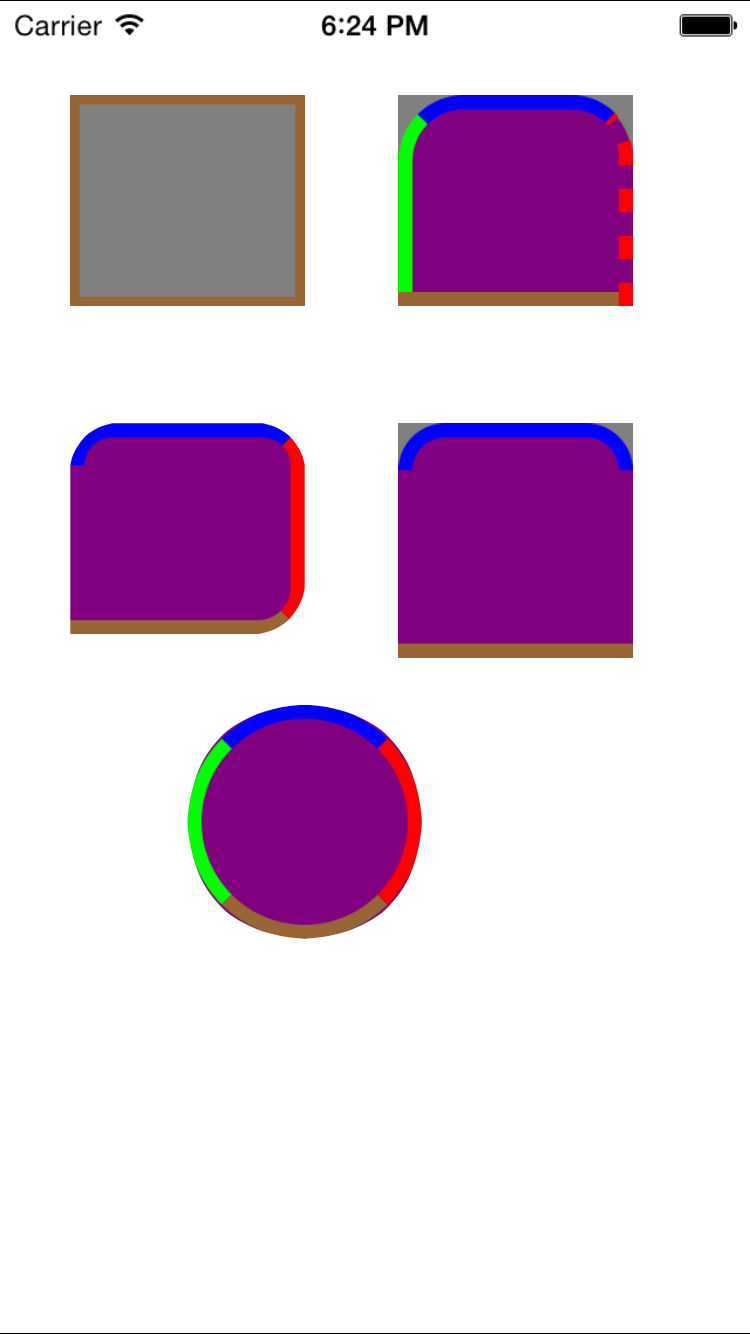
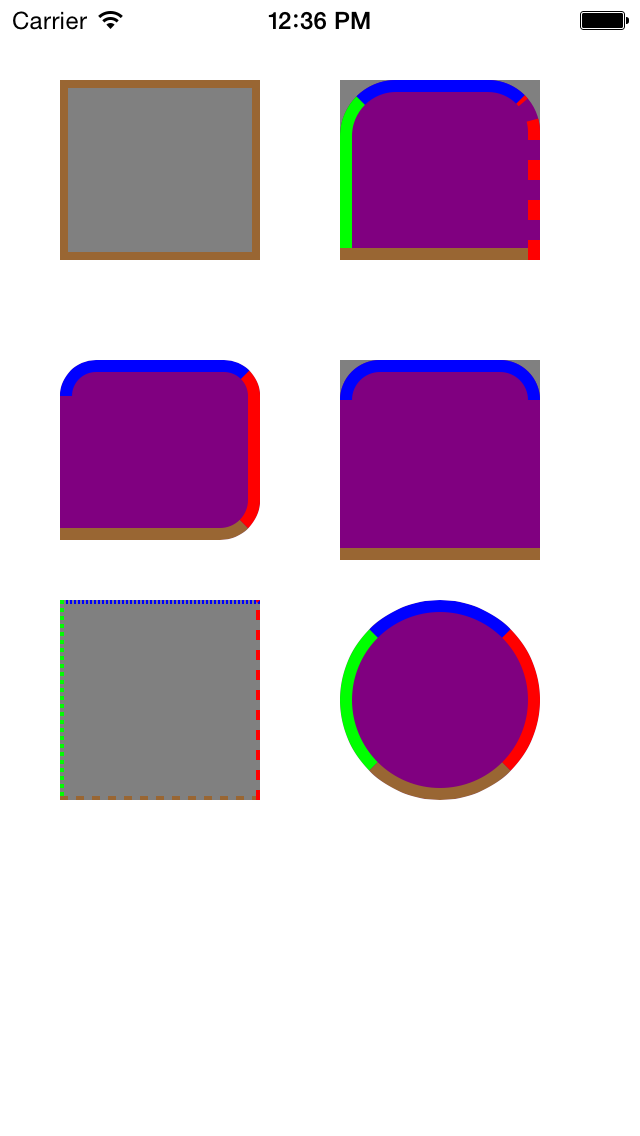
修正了之前的边界裁剪位置偏移问题，增加虚线的效果图

diff --git a/YRBorderViewDemo/YRBorderViewDemo/YRBorderView/YRBorderView.m b/YRBorderViewDemo/YRBorderViewDemo/YRBorderView/YRBorderView.m
@@ -158,21 +158,17 @@
 
 -(UIBezierPath*)bezierPathForBorder{
     if (self.needUpdatePathForBorder||!self.pathForBorder) {
-        CGFloat halfLineWidthTop = _lineWidthTop/2;
-        CGFloat halfLineWidthLeft = _lineWidthLeft/2;
-        CGFloat halfLineWidthBottom = _lineWidthBottom/2;
-        CGFloat halfLineWidthRight = _lineWidthRight/2;
         UIBezierPath *bezierPath = [UIBezierPath bezierPath];
         [bezierPath moveToPoint:CGPointMake(self.frame.size.width-_radiusTopRight, 0)];
         [bezierPath addLineToPoint:CGPointMake(_radiusTopLeft, 0)];
-        [bezierPath addQuadCurveToPoint:CGPointMake(0, _radiusTopLeft) controlPoint:CGPointMake(halfLineWidthLeft, halfLineWidthTop)];
+        [bezierPath addArcWithCenter:CGPointMake(_radiusTopLeft, _radiusTopLeft) radius:_radiusTopLeft startAngle:M_PI+M_PI_2 endAngle:M_PI clockwise:0];
         [bezierPath addLineToPoint:CGPointMake(0, self.frame.size.height-_radiusBottomLeft)];
-        [bezierPath addQuadCurveToPoint:CGPointMake(_radiusBottomLeft, self.frame.size.height) controlPoint:CGPointMake(halfLineWidthLeft, self.frame.size.height-halfLineWidthBottom)];
-        [bezierPath moveToPoint:CGPointMake(_radiusBottomLeft, self.frame.size.height)];
+        [bezierPath addArcWithCenter:CGPointMake(_radiusBottomLeft, self.frame.size.height-_radiusBottomLeft) radius:_radiusBottomLeft startAngle: M_PI endAngle:M_PI_2 clockwise:0];
         [bezierPath addLineToPoint:CGPointMake(self.frame.size.width-_radiusBottomRight, self.frame.size.height)];
-        [bezierPath addQuadCurveToPoint:CGPointMake(self.frame.size.width, self.frame.size.height-_radiusBottomRight) controlPoint:CGPointMake(self.frame.size.width-halfLineWidthRight, self.frame.size.height-halfLineWidthBottom)];
+        [bezierPath addArcWithCenter:CGPointMake(self.frame.size.width-_radiusBottomRight, self.frame.size.height-_radiusBottomRight) radius:_radiusBottomRight startAngle: M_PI_2 endAngle:0 clockwise:0];
         [bezierPath addLineToPoint:CGPointMake(self.frame.size.width, _radiusTopRight)];
-        [bezierPath addQuadCurveToPoint:CGPointMake(self.frame.size.width-_radiusTopRight, 0) controlPoint:CGPointMake(self.frame.size.width-halfLineWidthRight, halfLineWidthTop)];
+        [bezierPath addArcWithCenter:CGPointMake(self.frame.size.width-_radiusTopRight, _radiusTopRight) radius:_radiusTopRight startAngle: 0 endAngle:-M_PI_2 clockwise:0];
+
         self.pathForBorder = bezierPath;
         self.needUpdatePathForBorder = false;
     }

diff --git a/YRBorderViewDemo/YRBorderViewDemo/ViewController.m b/YRBorderViewDemo/YRBorderViewDemo/ViewController.m
@@ -68,8 +68,18 @@
         [self.view addSubview:borderView];
     }
     
-    {//demo5处理个圆玩玩
-        YRBorderView *borderView=[[YRBorderView alloc]initWithFrame:CGRectMake(80, 300, 100, 100)];
+    {//demo5虚线边界
+        YRBorderView *borderView=[[YRBorderView alloc]initWithFrame:CGRectMake(30, 300, 100, 100)];
+        [borderView setNeedLineTop:true left:true bottom:true right:true];
+        [borderView setLineColorTop:[UIColor blueColor] left:[UIColor greenColor] bottom:[UIColor brownColor] right:[UIColor redColor]];
+        [borderView setLineWidthTop:2 left:2 bottom:2 right:2];
+        [borderView setBackgroundColor:viewBackgroundColor];
+        [borderView setLineDashTop:1 left:2 bottom:4 right:5];
+        
+        [self.view addSubview:borderView];
+    }
+    {//demo6处理个圆玩玩
+        YRBorderView *borderView=[[YRBorderView alloc]initWithFrame:CGRectMake(170, 300, 100, 100)];
         [borderView setNeedLineTop:true left:true bottom:true right:true];
         [borderView setLineColorTop:[UIColor blueColor] left:[UIColor greenColor] bottom:[UIColor brownColor] right:[UIColor redColor]];
         [borderView setLineWidthTop:6 left:6 bottom:6 right:6];

diff --git a/README.md b/README.md
@@ -1,10 +1,11 @@
 YRBorderView
 ============
 
-A view that can add custom border , each line width ,color and  corner radius can be edited.
+一个可以添加各种边线效果的View，支持四条边不同弧度，粗细不同，支持虚线，支持裁剪掉边界外面部分。功能比较全面了。
+
+具体可看下面的效果图。
 
 
-Intro : [http://yueruo.github.io/iOS-YRBorderView.html](http://yueruo.github.io/iOS-YRBorderView.html)
+文字介绍 : [http://yueruo.github.io/iOS-YRBorderView.html](http://yueruo.github.io/iOS-YRBorderView.html)
 
-
-![alt YRBorderViewDemo效果图](YRBorderViewDemo效果图.png "YRBorderViewDemo效果图")
+<img src="YRBorderViewDemo效果图.png" width=320 />
